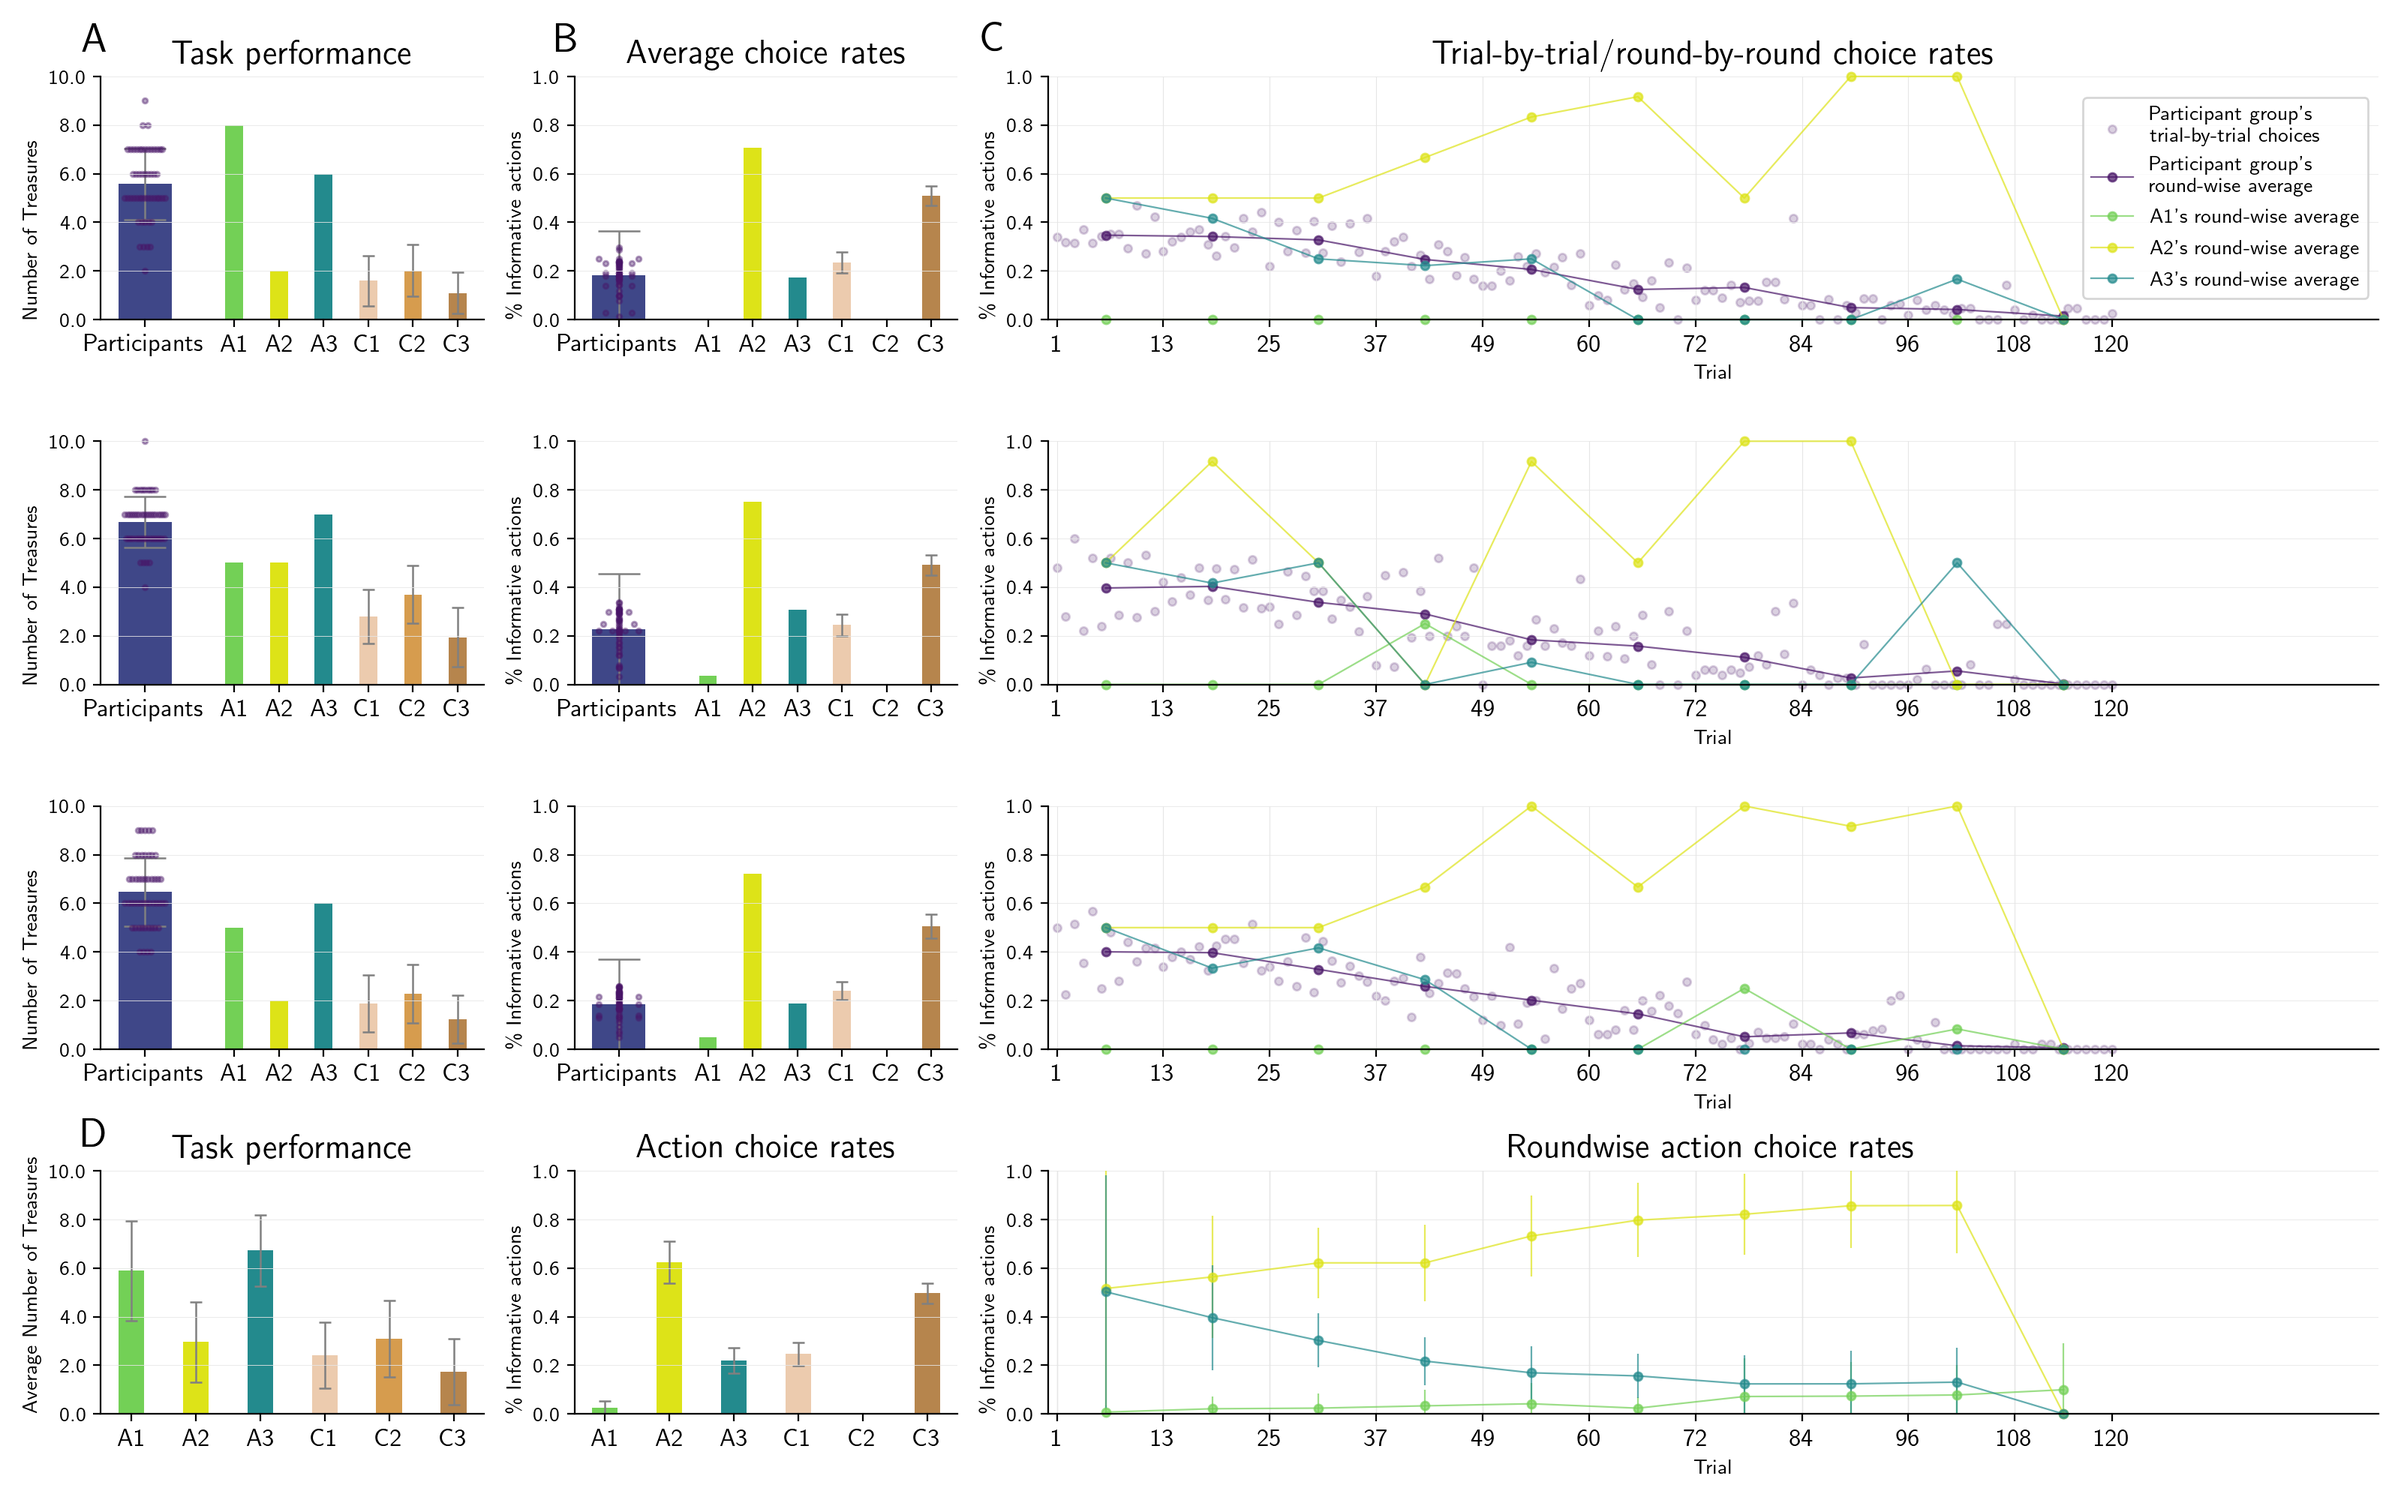
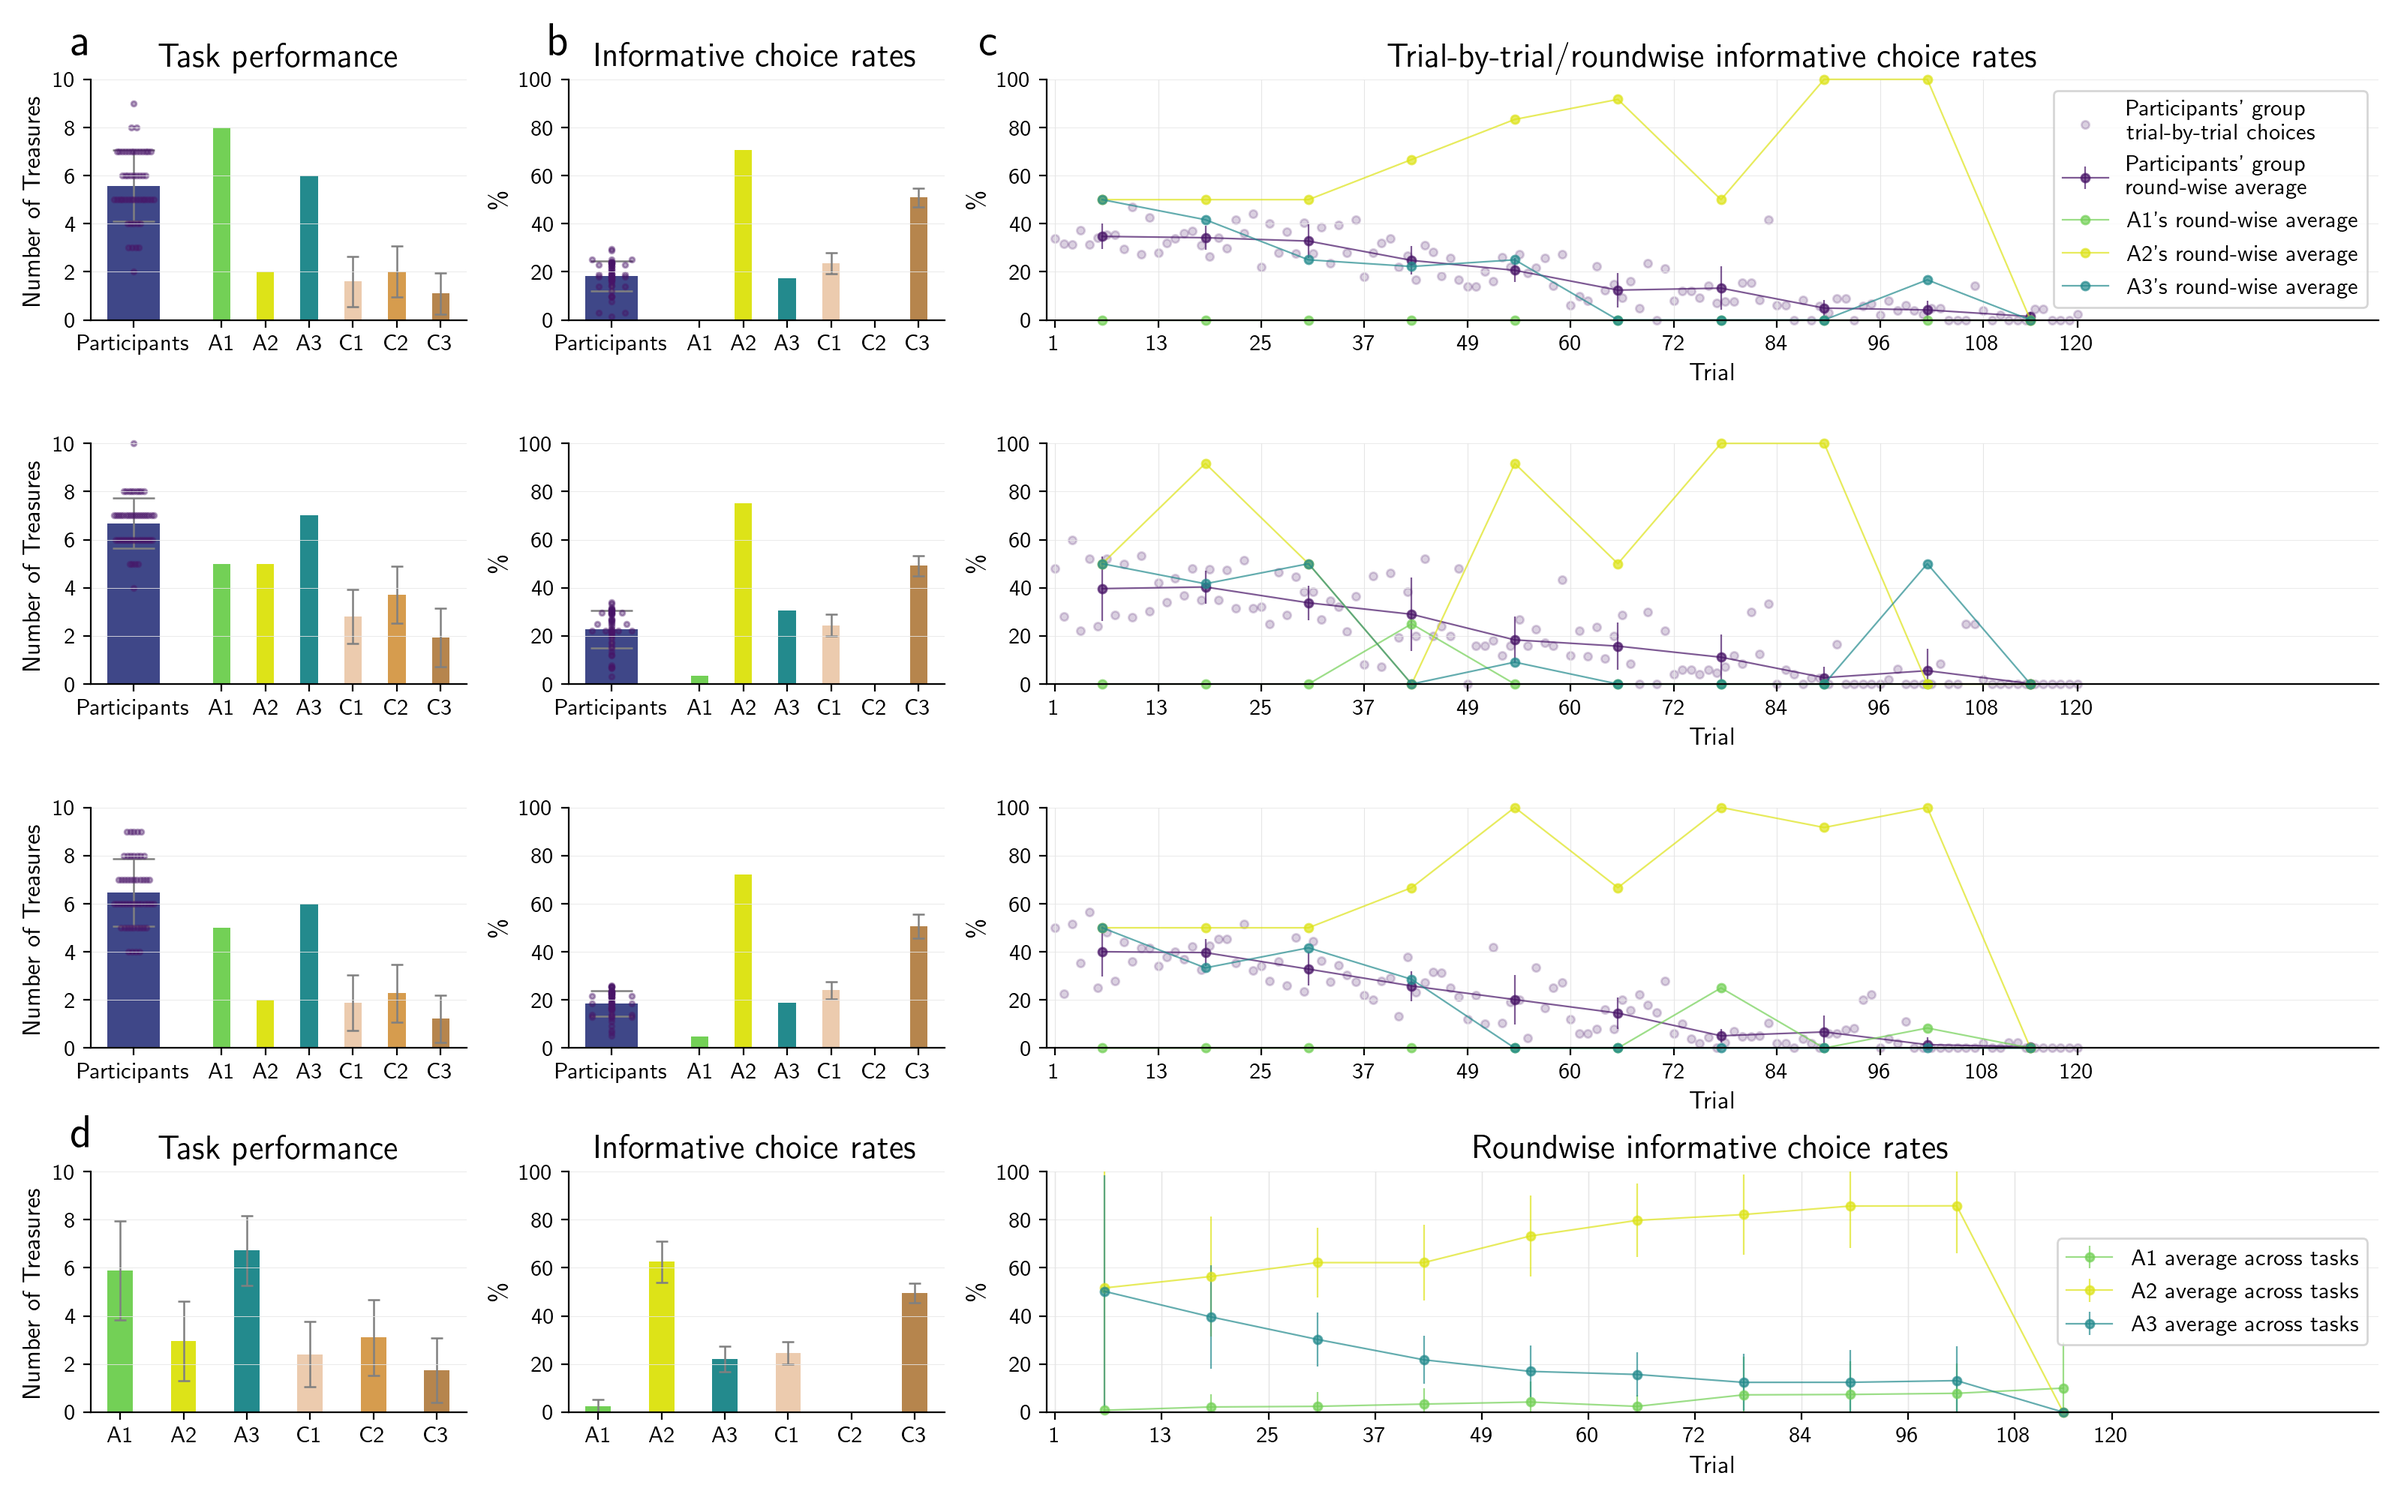
Update

diff --git a/code/plot_figures.py b/code/plot_figures.py
@@ -157,7 +157,8 @@ for block_ in range(n_blocks):
                              xticks=[0, 1, 1.5, 2, 2.5, 3, 3.5],
                              xticklabels=['Participants', 'A1', 'A2', 'A3', 'C1', 'C2', 'C3'],
                              yticks=np.linspace(0, n_tr_b, 6),
-                             ytickslabels=np.around(np.linspace(0, n_tr_b, 6), 2))
+                             #ytickslabels=np.around(np.linspace(0, n_tr_b, 6), 2))
+                             ytickslabels=[0, 2, 4, 6, 8, 10])
 
 # Add letter and title
 very_plotter.config_axes(ax[0], title="Task performance")
@@ -188,14 +189,17 @@ for block in range(n_blocks):
 
     # Configure axis
     very_plotter.config_axes(this_ax,
-                             y_label="\% Informative actions", y_lim=[0, 1],
+                             y_label="\%", y_lim=[0, 1],
                              xticks=[0, 1, 1.5, 2, 2.5, 3, 3.5],
                              xticklabels=['Participants', 'A1', 'A2', 'A3', 'C1', 'C2', 'C3'],
-                             yticks=np.linspace(0, 1.0, 6),
-                             ytickslabels=np.around(np.linspace(0, 1.0, 6), 2))
+                             yticks=np.linspace(0, 1, 6),
+                             #ytickslabels=int(np.linspace(0, 100, 6), 0))
+                             #ytickslabels=np.linspace(0, 100, 6))
+                             ytickslabels=[0, 20, 40, 60, 80, 100])
+    #this_ax.yaxis.set_major_locator(mticker.MaxNLocator(integer=True))
 
 # Add letter and title
-very_plotter.config_axes(ax[0], title="Average choice rates")
+very_plotter.config_axes(ax[0], title="Informative choice rates")
 very_plotter.add_letters({1: ax[0]})
 
 # ------Trial-by-trial/round-wise average choice rates--------------------------------------------
@@ -208,7 +212,7 @@ for block in range(n_blocks):
     x = tw_exp_bw[block].trial.values
     y = tw_exp_bw[block].mean_drill.values
     this_ax.scatter(x, y, alpha=0.2, s=s, color=col_exp[1], clip_on=False,
-                    label="Participant group's \n trial-by-trial choices") #facecolors='none', edgecolors=col_exp[1])
+                    label="Participants' group \n trial-by-trial choices") #facecolors='none', edgecolors=col_exp[1])
 
     # Experimental group round-by-round choices
     tw_exp_run_grpby_round = tw_exp_bw[block].groupby('round')
@@ -216,8 +220,8 @@ for block in range(n_blocks):
     y = [np.mean(tw_exp_run_thisround['mean_drill']) for round_, tw_exp_run_thisround in tw_exp_run_grpby_round]
     e = [np.std(tw_exp_run_thisround['mean_drill']) for round_, tw_exp_run_thisround in tw_exp_run_grpby_round]
     this_ax.errorbar(x, y, alpha=0.7, markersize=4, color=col_exp[1], fmt='o', linestyle='-', linewidth=0.8,
-                     label="Participant group's \n round-wise average", clip_on=False)
-                     #yerr=e)
+                     label="Participants' group \n round-wise average", clip_on=False,
+                     yerr=e)
 
     # Bayesian agents
     i = 0
@@ -237,16 +241,17 @@ for block in range(n_blocks):
     this_ax.vlines(vlines, colors=[.9, .9, .9], linewidth=.4, ymin=0, ymax=1)  # Add vertical lines
     vlines.append(120)  # Add last boundary, to have 12 xticklabels
     very_plotter.config_axes(this_ax,
-                             x_lim=[0, 150], x_label='Trial', xticks=vlines,
+                             x_lim=[0, 155], x_label='Trial', xticks=vlines,
                              xticklabels=np.around((np.linspace(1, 120, 11))).astype(int),
-                             y_label="\% Informative actions", y_lim=[0, 1],
+                             y_label="\%", y_lim=[0, 1],
                              yticks=np.linspace(0, 1.0, 6),
-                             ytickslabels=np.around(np.linspace(0, 1.0, 6), 2))
+                             #ytickslabels=np.around(np.linspace(0, 1.0, 6), 2))
+                             ytickslabels=[0, 20, 40, 60, 80, 100])
 
 # Add letter, title and legend
-ax[1].legend(loc='center right')
+ax[1].legend(loc='upper right', fontsize=11)
 
-very_plotter.config_axes(ax[1], title="Trial-by-trial/round-by-round choice rates")
+very_plotter.config_axes(ax[1], title="Trial-by-trial/roundwise informative choice rates")
 # Add letter
 very_plotter.add_letters({2: ax[1]})
 
@@ -271,11 +276,12 @@ very_plotter.plot_bar(ax=this_ax, x=[2.5, 3, 3.5], height=grp_lvl_stats_sim_100_
 # Configure axis
 very_plotter.config_axes(this_ax,
                          title="Task performance",
-                         y_label="Average Number of Treasures", y_lim=[0, n_tr_b],
+                         y_label="Number of Treasures", y_lim=[0, n_tr_b],
                          xticks=[1, 1.5, 2, 2.5, 3, 3.5],
                          xticklabels=['A1', 'A2', 'A3', 'C1', 'C2', 'C3'],
                          yticks=np.linspace(0, n_tr_b, 6),
-                         ytickslabels=np.around(np.linspace(0, n_tr_b, 6), 2))
+                         #ytickslabels=np.around(np.linspace(0, n_tr_b, 6), 2))
+                         ytickslabels=[0, 2, 4, 6, 8, 10])
 
 # Add letter
 very_plotter.add_letters({3: ax[4]})
@@ -296,12 +302,13 @@ very_plotter.plot_bar(ax=this_ax, x=[2.5, 3, 3.5], height=grp_lvl_stats_sim_100_
 
 # Configure axis
 very_plotter.config_axes(this_ax,
-                         title="Action choice rates",
-                         y_label="\% Informative actions", y_lim=[0, 1],
+                         title="Informative choice rates",
+                         y_label="\%", y_lim=[0, 1],
                          xticks=[1, 1.5, 2, 2.5, 3, 3.5],
                          xticklabels=['A1', 'A2', 'A3', 'C1', 'C2', 'C3'],
                          yticks=np.linspace(0, 1.0, 6),
-                         ytickslabels=np.around(np.linspace(0, 1.0, 6), 2))
+                         #ytickslabels=np.around(np.linspace(0, 1.0, 6), 2))
+                         ytickslabels=[0, 20, 40, 60, 80, 100])
 
 # Roundwise action choices
 s = 14
@@ -319,7 +326,7 @@ for agent, agent_tw_df in tw_sim_100_aw.items():
     y = [np.nanmean(ev_df['p_drills']) for round_, ev_df in ev_thisagent_gbround]
     e = [np.nanstd(ev_df['p_drills']) for round_, ev_df in ev_thisagent_gbround]
     this_ax.errorbar(x, y, alpha=0.7, markersize=4, color=agent_colors[i], fmt='o', linestyle='-',
-                     linewidth=0.8, clip_on=False, label=f"{agent}'s average over round", yerr=e)
+                     linewidth=0.8, clip_on=False, label=f"{agent} average across tasks", yerr=e)
     this_ax.vlines(vlines, colors=[.9, .9, .9], linewidth=.4, ymin=0, ymax=1)
     i += 1
 
@@ -327,12 +334,15 @@ for agent, agent_tw_df in tw_sim_100_aw.items():
 this_ax.vlines(vlines, colors=[.9, .9, .9], linewidth=.4, ymin=0, ymax=1)  # Add vertical lines
 vlines.append(120)  # Add last boundary, to have 12 xticklabels
 very_plotter.config_axes(this_ax,
-                         title="Roundwise action choice rates",
+                         title="Roundwise informative choice rates",
                          x_lim=[0, 150], x_label='Trial', xticks=vlines,
                          xticklabels=np.around((np.linspace(1, 120, 11))).astype(int),
-                         y_label="\% Informative actions", y_lim=[0, 1],
+                         y_label="\%", y_lim=[0, 1],
                          yticks=np.linspace(0, 1.0, 6),
-                         ytickslabels=np.around(np.linspace(0, 1.0, 6), 2))
+                         #ytickslabels=np.around(np.linspace(0, 1.0, 6), 2))
+                         ytickslabels=[0, 20, 40, 60, 80, 100])
+
+this_ax.legend(loc='center right', fontsize=11)
 
 # Print subject level descriptive figure
 fig.tight_layout()

diff --git a/code/utilities/very_plotter.py b/code/utilities/very_plotter.py
@@ -22,13 +22,13 @@ def get_fig_template(plt):
         'text.usetex': 'True',
         'axes.spines.top': 'False',
         'axes.spines.right': 'False',
-        'yaxis.labellocation' : 'bottom'
+        'yaxis.labellocation': 'bottom'
     }
     plt.rcParams.update(rcParams)
 
     # # Define color palettes from wesanderson
     col_exp = [wesanderson.color_palettes['Castello Cavalcanti'][0][3],
-              wesanderson.color_palettes['Castello Cavalcanti'][0][1]]
+               wesanderson.color_palettes['Castello Cavalcanti'][0][1]]
     #
     # col_A = [wesanderson.color_palettes['Darjeeling Limited'][1][1],
     #          wesanderson.color_palettes['The Life Aquatic with Steve Zissou'][0][0],
@@ -62,14 +62,13 @@ def get_fig_template(plt):
     col_A = [tab20c(0), tab20b(18), tab20(18)]
     col_C = [wesanderson.color_palettes['Darjeeling Limited'][1][0],
              wesanderson.color_palettes['Darjeeling Limited'][1][2],
-               #wesanderson.color_palettes['Hotel Chevalier'][0][3],
+             # wesanderson.color_palettes['Hotel Chevalier'][0][3],
              wesanderson.color_palettes['Isle of Dogs'][1][2]]
-
 
     curl20 = palettable.cmocean.diverging.Delta_20.colors
     viridis_20 = palettable.matplotlib.Viridis_20.colors
     magma_20 = palettable.matplotlib.Magma_20.colors
-    #col_exp = [[value / 255 for value in list_] for list_ in [curl20[-3], curl20[-5]]]
+    # col_exp = [[value / 255 for value in list_] for list_ in [curl20[-3], curl20[-5]]]
     col_A = [[value / 255 for value in list_] for list_ in [curl20[2], curl20[8], curl20[6]]]
 
     col_exp = [[value / 255 for value in list_] for list_ in [viridis_20[4], viridis_20[1]]]
@@ -84,35 +83,35 @@ def config_axes(ax, y_label=None, y_lim=None, title=None, x_label=None, x_lim=No
     if title is not None:
         ax.set_title(title, size=16)
     if y_label is not None:
-        ax.set_ylabel(y_label, fontsize=10)
+        ax.set_ylabel(y_label, fontsize=12, loc='center')
     if y_lim is not None:
         ax.set_ylim(y_lim)
     if x_label is not None:
-        ax.set_xlabel(x_label)
+        ax.set_xlabel(x_label, fontsize=12)
     if x_lim is not None:
         ax.set_xlim(x_lim)
     if xticks is not None:
         ax.set_xticks(xticks)
     if xticklabels is not None:
-        ax.set_xticklabels(xticklabels, fontsize=12)
+        ax.set_xticklabels(xticklabels, fontsize=11)
     if yticks is not None:
         ax.set_yticks(yticks)
     if ytickslabels is not None:
-        ax.set_yticklabels(ytickslabels)
+        ax.set_yticklabels(ytickslabels, fontsize=11)
 
 
 def plot_bar(ax, x, height, colors, bar_width=0.6, errorbar_size=10, yerr=None):
     """Plot bars with error bar if given"""
     ax.bar(x=x, height=height, yerr=yerr,
-                 width=bar_width,
-                 color=colors, zorder=0,
-                 clip_on=False,
-                 error_kw=dict(ecolor='gray', lw=2, capsize=errorbar_size, capthick=0.9, elinewidth=0.9))
+           width=bar_width,
+           color=colors, zorder=0,
+           clip_on=False,
+           error_kw=dict(ecolor='gray', lw=2, capsize=errorbar_size, capthick=0.9, elinewidth=0.9))
 
 
 def plot_bar_scatter(ax, data, color, bar_width):
     """Plot scatters over bar with half bar_width scatter range"""
-    scatter_width = bar_width * (3/4)
+    scatter_width = bar_width * (3 / 4)
 
     # Sort single data points to scatter
     unique, counts = np.unique(data, return_counts=True)
@@ -135,6 +134,6 @@ def plot_bar_scatter(ax, data, color, bar_width):
 def add_letters(ax):
     """Add letters to subplots"""
     for key, value in ax.items():
-        value.text(-0.05, 1.1, string.ascii_uppercase[key],
+        value.text(-0.05, 1.1, string.ascii_lowercase[key],
                    transform=value.transAxes,
-                   size=20, weight='bold')
+                   size=22, weight='bold')
